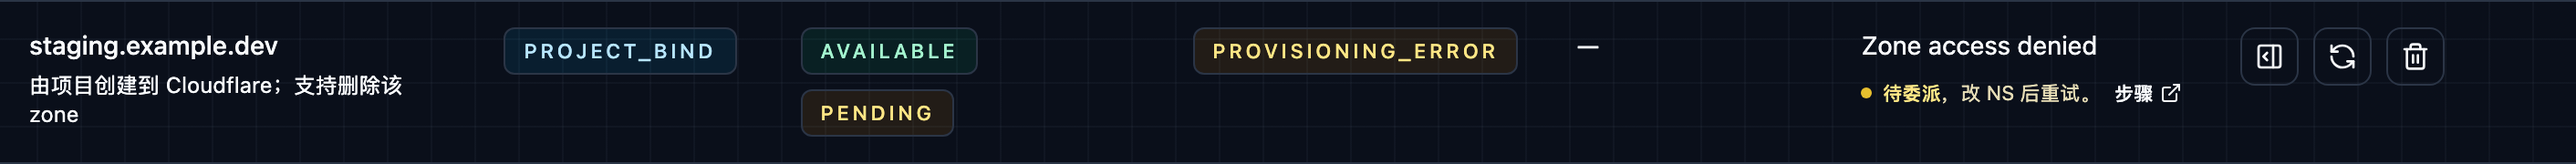
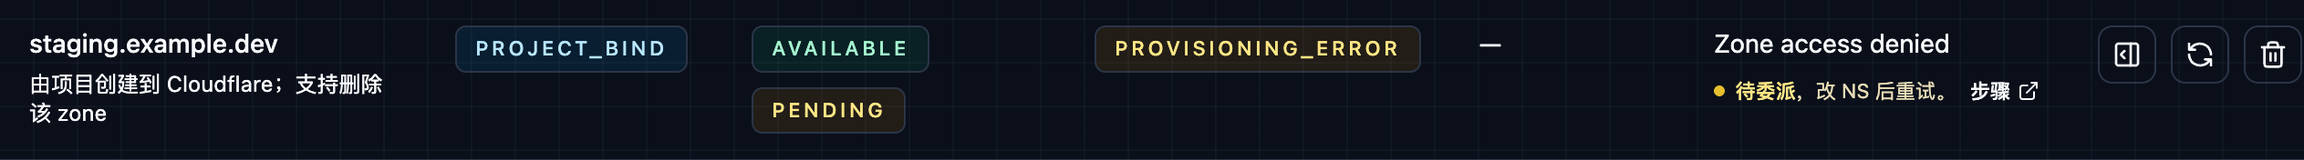
fix(domains): align catalog row hints
- remove the stray details header so catalog columns stay aligned

- stop auto polling on non-recoverable project-bind provisioning errors

- refresh docs/spec screenshots for the repaired direct-bind flow

diff --git a/apps/web/src/test/domain-catalog.test.ts b/apps/web/src/test/domain-catalog.test.ts
@@ -3,6 +3,7 @@ import { describe, expect, it } from "vitest";
 import {
   needsNameserverDelegation,
   resolveDomainCatalogPollingInterval,
+  shouldAutoRefreshDomainCatalogEntry,
   shouldPollDomainCatalog,
 } from "@/lib/domain-catalog";
 import { demoDomainCatalog } from "@/mocks/data";
@@ -43,6 +44,23 @@ describe("domain catalog polling helpers", () => {
         },
       ]),
     ).toBe(true);
+  });
+
+  it("does not auto-refresh permanent project-bind provisioning errors", () => {
+    const permissionFailureDomain = {
+      ...demoDomainCatalog[0],
+      bindingSource: "project_bind" as const,
+      cloudflareStatus: "active" as const,
+      projectStatus: "provisioning_error" as const,
+      nameServers: ["amy.ns.cloudflare.com", "kai.ns.cloudflare.com"],
+      lastProvisionError: "Zone access denied",
+    };
+
+    expect(needsNameserverDelegation(permissionFailureDomain)).toBe(true);
+    expect(shouldAutoRefreshDomainCatalogEntry(permissionFailureDomain)).toBe(
+      false,
+    );
+    expect(shouldPollDomainCatalog([permissionFailureDomain])).toBe(false);
   });
 
   it("returns a polling interval only while the page is visible and online", () => {

diff --git a/apps/web/src/lib/domain-catalog.ts b/apps/web/src/lib/domain-catalog.ts
@@ -9,8 +9,29 @@ export const needsDomainBindingFollowUp = (domain: DomainCatalogItem) =>
 export const needsNameserverDelegation = (domain: DomainCatalogItem) =>
   needsDomainBindingFollowUp(domain) && domain.nameServers.length > 0;
 
+const hasDelegationPendingError = (domain: DomainCatalogItem) => {
+  const normalized = domain.lastProvisionError?.toLowerCase() ?? "";
+
+  return (
+    normalized.includes("pending") ||
+    normalized.includes("activation") ||
+    normalized.includes("activate") ||
+    normalized.includes("delegat") ||
+    normalized.includes("nameserver") ||
+    normalized.includes("name server")
+  );
+};
+
+export const shouldAutoRefreshDomainCatalogEntry = (
+  domain: DomainCatalogItem,
+) =>
+  domain.bindingSource === "project_bind" &&
+  (domain.cloudflareStatus === "pending" ||
+    (domain.projectStatus === "provisioning_error" &&
+      hasDelegationPendingError(domain)));
+
 export const shouldPollDomainCatalog = (domains?: DomainCatalogItem[]) =>
-  (domains ?? []).some(needsDomainBindingFollowUp);
+  (domains ?? []).some(shouldAutoRefreshDomainCatalogEntry);
 
 export const resolveDomainCatalogPollingInterval = ({
   domains,

diff --git a/apps/web/src/test/domains-page.test.tsx b/apps/web/src/test/domains-page.test.tsx
@@ -119,6 +119,9 @@ describe("domains page view", () => {
       "href",
       "https://docs.example.test/zh/project-domain-binding#zone-pending-or-nameserver-not-delegated",
     );
+    expect(
+      screen.queryByRole("columnheader", { name: "详情" }),
+    ).not.toBeInTheDocument();
     expect(screen.getByText("relay.example.test")).toBeInTheDocument();
     expect(screen.getAllByText("project_bind")).toHaveLength(2);
     expect(screen.getAllByText("provisioning_error").length).toBeGreaterThan(0);

diff --git a/apps/web/src/components/domains/domain-table.tsx b/apps/web/src/components/domains/domain-table.tsx
@@ -240,7 +240,6 @@ export const DomainTable = ({
                 <TableHeaderCell>来源</TableHeaderCell>
                 <TableHeaderCell>Cloudflare</TableHeaderCell>
                 <TableHeaderCell>项目状态</TableHeaderCell>
-                <TableHeaderCell>详情</TableHeaderCell>
                 <TableHeaderCell>最近接入</TableHeaderCell>
                 <TableHeaderCell>错误</TableHeaderCell>
                 <TableHeaderCell className="text-right">操作</TableHeaderCell>

diff --git a/packages/shared/src/version.generated.ts b/packages/shared/src/version.generated.ts
@@ -1,6 +1,6 @@
 export const versionInfo = {
   version: "0.1.0",
-  commitSha: "8979956",
+  commitSha: "65ef640",
   branch: "th/domain-bind-doc-hints",
-  builtAt: "2026-04-11T03:27:07.815Z",
+  builtAt: "2026-04-11T04:02:48.803Z",
 } as const;
